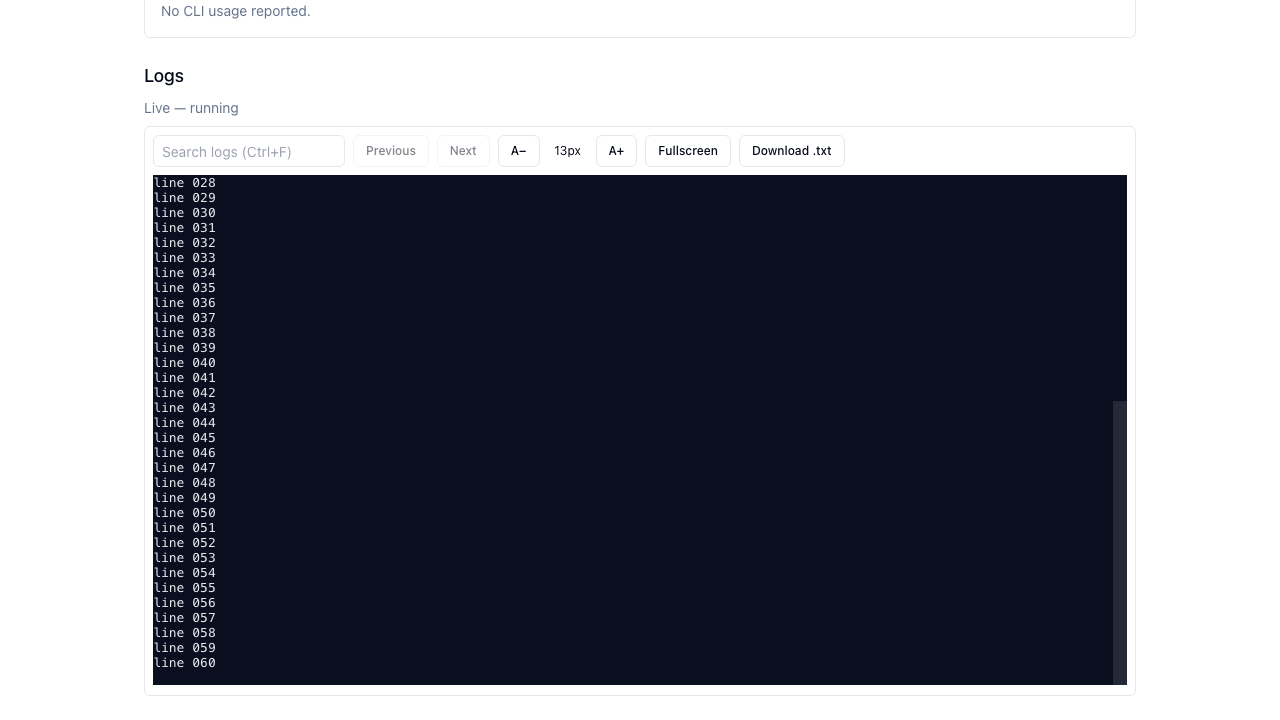
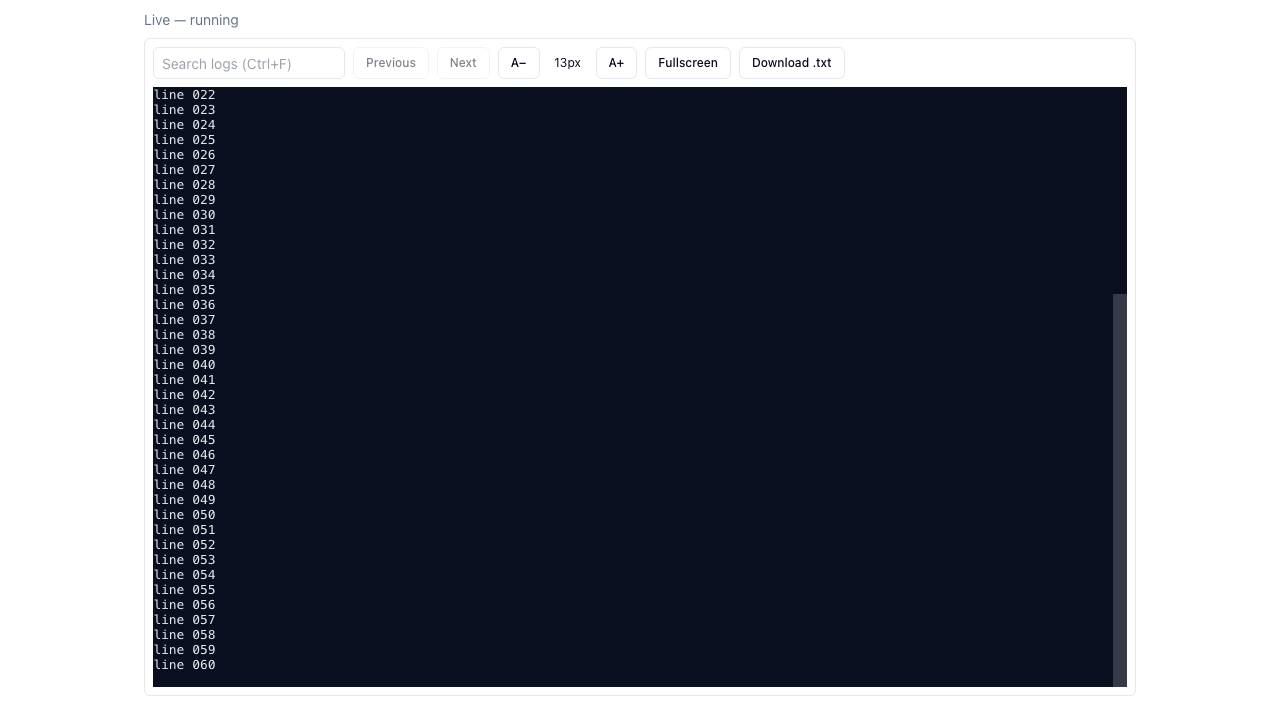
fix(web): keep the terminal grid pinned to the daemon's fixed 120x40 PTY
Dynamic fit-to-container reflowed a closed-stream replay of a PTY that
was always 120x40 (services/host-daemon/src/pty-runner.ts), corrupting
absolute-cursor-addressed output (progress bars, full-screen redraws)
whenever the computed grid didn't match. Revert the grid to the daemon's
fixed size and rename the misleading fit() back to what it actually does
(repaint). Fix the original clipping bug in CSS instead: the host div no
longer caps its height, so it grows to the grid's natural size instead of
hard-clipping it, with a local overflow-x scrollbar for wide content at
larger font sizes. Drops the @xterm/addon-fit dependency added for the
reverted approach.

The e2e regression assertion now walks the DOM ancestor chain from the
rendered .xterm-screen looking for an overflow:hidden ancestor that cuts
it off — the actual clipping mechanism — rather than comparing rendered
height to container height, which goes trivially true once the container
sizes to its content. Verified this fails against the pre-fix code and
passes against the fix; before/after screenshots regenerated to match.

diff --git a/services/web/src/components/use-session-terminal.ts b/services/web/src/components/use-session-terminal.ts
@@ -1,5 +1,4 @@
 import { useCallback, useEffect, useRef, type RefObject } from "react";
-import type { FitAddon } from "@xterm/addon-fit";
 import type { SearchAddon } from "@xterm/addon-search";
 import type { Terminal } from "@xterm/xterm";
 
@@ -9,14 +8,13 @@ import { DEFAULT_TERMINAL_FONT_SIZE, terminalText } from "../lib/session-termina
 type SessionTerminalRuntime = {
   terminal: Terminal;
   search: SearchAddon;
-  fitAddon: FitAddon;
   renderedThrough: string | null;
   renderedText: string;
 };
 
 /**
  * The host can be temporarily hidden (0x0) while navigating or mid-fullscreen-transition,
- * which makes FitAddon's measurement (or a stale-rows repaint) throw — expected, not an error.
+ * which makes a repaint throw — expected, not an error.
  */
 function repaintTerminal(runtime: SessionTerminalRuntime | null): void {
   if (!runtime) return;
@@ -25,18 +23,6 @@ function repaintTerminal(runtime: SessionTerminalRuntime | null): void {
   } catch {
     // See doc comment above.
   }
-}
-
-/** Resizes the terminal's grid to fill its host element, then repaints. */
-function fitTerminal(runtime: SessionTerminalRuntime | null): void {
-  if (!runtime) return;
-  try {
-    runtime.fitAddon.fit();
-  } catch {
-    // See doc comment above.
-    return;
-  }
-  repaintTerminal(runtime);
 }
 
 export function useSessionTerminal(
@@ -50,49 +36,41 @@ export function useSessionTerminal(
   const textRef = useRef(text);
   itemsRef.current = items;
   textRef.current = text;
-  const fit = useCallback(() => fitTerminal(runtimeRef.current), []);
+  const refresh = useCallback(() => repaintTerminal(runtimeRef.current), []);
 
   useEffect(() => {
     let disposed = false;
-    let resizeObserver: ResizeObserver | undefined;
-    void Promise.all([
-      import("@xterm/xterm"),
-      import("@xterm/addon-fit"),
-      import("@xterm/addon-search"),
-    ]).then(([xterm, fitModule, searchModule]) => {
-      if (disposed || !hostRef.current) return;
-      const terminal = new xterm.Terminal({
-        allowTransparency: false,
-        convertEol: false,
-        cursorBlink: false,
-        disableStdin: true,
-        fontFamily: "ui-monospace, SFMono-Regular, Menlo, Monaco, Consolas, monospace",
-        fontSize: DEFAULT_TERMINAL_FONT_SIZE,
-        screenReaderMode: true,
-        scrollback: 10_000,
-        theme: { background: "#090f1f", foreground: "#e5e7eb", cursor: "#e5e7eb" },
-      });
-      const fitAddon = new fitModule.FitAddon();
-      const search = new searchModule.SearchAddon();
-      terminal.loadAddon(fitAddon);
-      terminal.loadAddon(search);
-      terminal.open(hostRef.current);
-      const runtime: SessionTerminalRuntime = {
-        terminal,
-        search,
-        fitAddon,
-        renderedText: textRef.current,
-        renderedThrough: itemsRef.current.at(-1)?.timestampSeq ?? null,
-      };
-      runtimeRef.current = runtime;
-      fitTerminal(runtime);
-      terminal.write(textRef.current, () => repaintTerminal(runtime));
-      resizeObserver = new ResizeObserver(() => fitTerminal(runtimeRef.current));
-      resizeObserver.observe(hostRef.current);
-    });
+    void Promise.all([import("@xterm/xterm"), import("@xterm/addon-search")]).then(
+      ([xterm, searchModule]) => {
+        if (disposed || !hostRef.current) return;
+        const terminal = new xterm.Terminal({
+          allowTransparency: false,
+          convertEol: false,
+          cols: 120,
+          rows: 40,
+          cursorBlink: false,
+          disableStdin: true,
+          fontFamily: "ui-monospace, SFMono-Regular, Menlo, Monaco, Consolas, monospace",
+          fontSize: DEFAULT_TERMINAL_FONT_SIZE,
+          screenReaderMode: true,
+          scrollback: 10_000,
+          theme: { background: "#090f1f", foreground: "#e5e7eb", cursor: "#e5e7eb" },
+        });
+        const search = new searchModule.SearchAddon();
+        terminal.loadAddon(search);
+        terminal.open(hostRef.current);
+        const runtime: SessionTerminalRuntime = {
+          terminal,
+          search,
+          renderedText: textRef.current,
+          renderedThrough: itemsRef.current.at(-1)?.timestampSeq ?? null,
+        };
+        runtimeRef.current = runtime;
+        terminal.write(textRef.current, () => repaintTerminal(runtime));
+      },
+    );
     return () => {
       disposed = true;
-      resizeObserver?.disconnect();
       runtimeRef.current?.terminal.dispose();
       runtimeRef.current = null;
     };
@@ -128,9 +106,9 @@ export function useSessionTerminal(
   useEffect(() => {
     if (runtimeRef.current) {
       runtimeRef.current.terminal.options.fontSize = fontSize;
-      fit();
+      refresh();
     }
-  }, [fontSize, fit]);
+  }, [fontSize, refresh]);
 
-  return { fit, runtimeRef };
+  return { refresh, runtimeRef };
 }

diff --git a/e2e/screenshots/terminal-clipping.spec.ts b/e2e/screenshots/terminal-clipping.spec.ts
@@ -7,11 +7,15 @@ const LINE_COUNT = 60;
 
 /**
  * Regression coverage for the terminal-clipping fix (design review finding #1): the session
- * log viewer used to hardcode a 40-row xterm grid inside a shorter, `overflow-hidden` box, so
- * the bottom rows were rendered but physically invisible. Seeds numbered lines (not ANSI noise —
- * see docs/e2e.md) so a missing tail line is self-evident in the screenshot, and measures the
- * rendered terminal's height against its host container to lock the fix in as an assertion, not
- * just a visual.
+ * log viewer used to render its fixed 120x40 xterm grid — matching the daemon PTY's own fixed
+ * size (services/host-daemon/src/pty-runner.ts), which this is a closed-stream replay of and
+ * must not reflow — inside a shorter, `overflow-hidden` box, so the bottom rows were rendered
+ * but physically invisible. The fix is CSS-only (session-terminal-viewer.tsx): the container no
+ * longer caps its height, so it grows to the grid's natural size instead of clipping it. Seeds
+ * numbered lines (not ANSI noise — see docs/e2e.md) so a missing tail line is self-evident in the
+ * screenshot, and walks the DOM ancestor chain from the rendered `.xterm-screen` canvas looking
+ * for an `overflow: hidden` ancestor whose bottom edge cuts it off — the actual clipping
+ * mechanism, not a height comparison that goes trivially true once the box sizes to its content.
  */
 test.describe("terminal clipping", () => {
   test("renders every line within the visible viewport, nothing clipped", async ({
@@ -80,14 +84,20 @@ test.describe("terminal clipping", () => {
       await page.getByTestId("session-logs").scrollIntoViewIfNeeded();
       await shot(page, "terminal-clipping");
 
-      const geometry = await page.getByTestId("session-logs").evaluate((container) => {
+      const clippedBy = await page.getByTestId("session-logs").evaluate((container) => {
         const rendered = container.querySelector<HTMLElement>(".xterm-screen");
-        return {
-          containerHeight: container.clientHeight,
-          renderedHeight: rendered?.clientHeight ?? 0,
-        };
+        if (!rendered) return "no .xterm-screen rendered";
+        const targetBottom = rendered.getBoundingClientRect().bottom;
+        for (let node = rendered.parentElement; node; node = node.parentElement) {
+          const style = getComputedStyle(node);
+          if (style.overflow !== "hidden" && style.overflowY !== "hidden") continue;
+          if (targetBottom > node.getBoundingClientRect().bottom + 0.5) {
+            return `${node.tagName.toLowerCase()}[data-pw="${node.getAttribute("data-pw") ?? ""}"]`;
+          }
+        }
+        return null;
       });
-      expect(geometry.renderedHeight).toBeLessThanOrEqual(geometry.containerHeight);
+      expect(clippedBy).toBeNull();
     } finally {
       if (host) await closeSocket(host.socket);
     }

diff --git a/services/web/src/components/session-terminal-viewer.tsx b/services/web/src/components/session-terminal-viewer.tsx
@@ -28,16 +28,16 @@ export function SessionTerminalViewer({
   const [query, setQuery] = useState("");
   const [searchResult, setSearchResult] = useState("Search logs");
 
-  const { fit, runtimeRef } = useSessionTerminal(hostRef, items, text, fontSize);
+  const { refresh, runtimeRef } = useSessionTerminal(hostRef, items, text, fontSize);
 
   useEffect(() => {
     const onFullscreenChange = () => {
       if (!document.fullscreenElement) setFullscreen(false);
-      requestAnimationFrame(fit);
+      requestAnimationFrame(refresh);
     };
     document.addEventListener("fullscreenchange", onFullscreenChange);
     return () => document.removeEventListener("fullscreenchange", onFullscreenChange);
-  }, [fit]);
+  }, [refresh]);
 
   const search = (direction: "next" | "previous") => {
     const found =
@@ -55,7 +55,7 @@ export function SessionTerminalViewer({
     }
     setFullscreen(true);
     void hostRef.current?.parentElement?.requestFullscreen?.().catch(() => undefined);
-    requestAnimationFrame(fit);
+    requestAnimationFrame(refresh);
   };
 
   const download = () => {
@@ -116,7 +116,7 @@ export function SessionTerminalViewer({
       </pre>
       <div
         ref={hostRef}
-        className={fullscreen ? "min-h-0 flex-1 overflow-hidden" : "h-[32rem] overflow-hidden"}
+        className={fullscreen ? "min-h-0 flex-1 overflow-auto" : "overflow-x-auto"}
         data-pw="session-logs"
         aria-label="Read-only ANSI session output"
       />

diff --git a/services/web/src/components/session-terminal-viewer.test.tsx b/services/web/src/components/session-terminal-viewer.test.tsx
@@ -17,11 +17,6 @@ const mocks = vi.hoisted(() => ({
   terminalOptions: vi.fn(),
 }));
 
-vi.mock("@xterm/addon-fit", () => ({
-  FitAddon: class {
-    fit() {}
-  },
-}));
 vi.mock("@xterm/addon-search", () => ({
   SearchAddon: class {
     findNext = mocks.findNext;
@@ -90,6 +85,11 @@ describe("SessionTerminalViewer", () => {
       "terminal",
     );
     expect(mocks.write).toHaveBeenCalledWith("\u001b[32mhello\u001b[0m\n", expect.any(Function));
+    // Grid must stay pinned to the real daemon PTY's fixed size (pty-runner.ts) — this is a
+    // closed-stream replay, not a live PTY, so reflowing the grid corrupts cursor-addressed output.
+    expect(mocks.terminalOptions).toHaveBeenCalledWith(
+      expect.objectContaining({ cols: 120, rows: 40 }),
+    );
 
     const search = field<HTMLInputElement>(view.container, "session-terminal-search");
     setValue(search, "hello");
